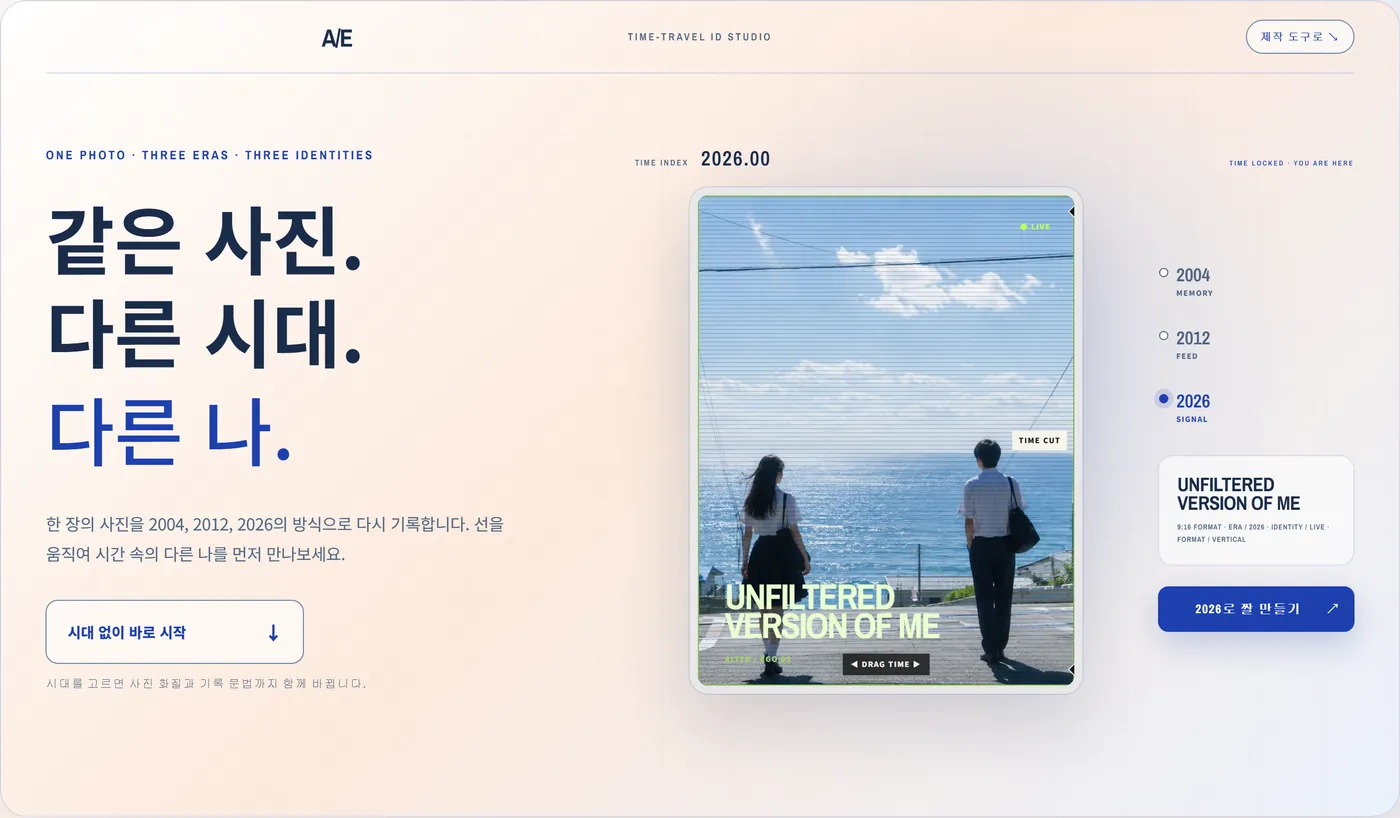
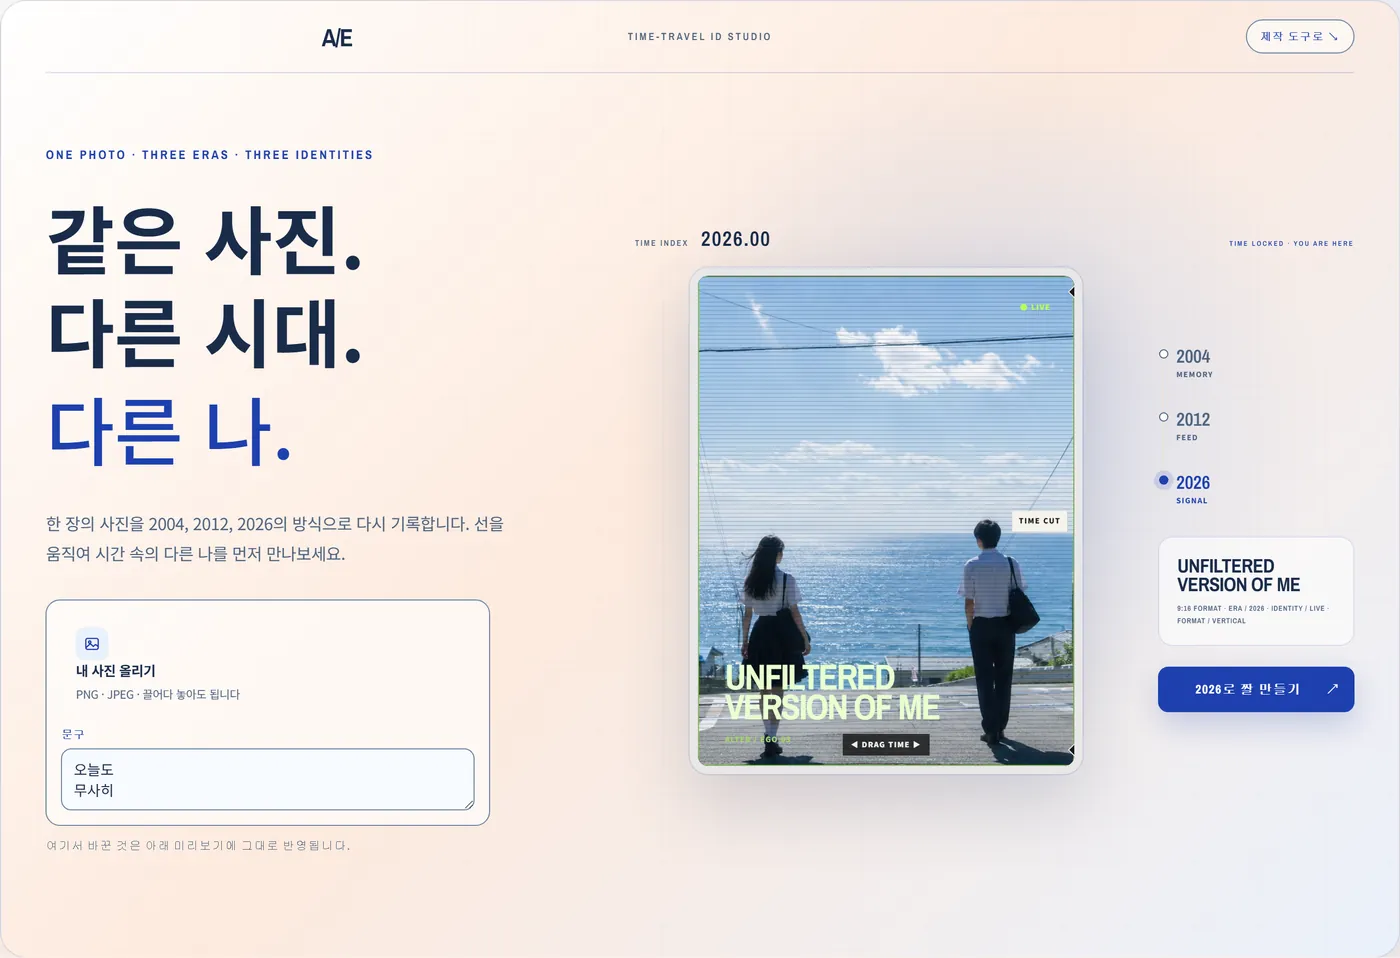
feat: let the first screen edit, not just promise to
과제 통과 기준 T03-C03 은 이미지 편집 도구와 문구 편집 도구가 첫 화면에
보일 것을 요구한다. 첫 화면을 랜딩으로 만들면서 편집 도구가 한참 아래로
밀려 이 기준이 깨져 있었다.

  1440x900   이미지 top 3557px · 문구 top 3834px   (화면 900px)
  1366x768   이미지 top 3465px · 문구 top 3742px   (화면 768px)
  390x844    이미지 top 5266px · 문구 top 5543px   (화면 844px)

Hero 왼쪽의 '시대 없이 바로 시작' 버튼을 실제 입력으로 바꾼다. 그 버튼이
하던 일은 아래로 스크롤하는 것뿐이었고, 그 경로는 상단 내비의 '제작 도구로'
가 이미 갖고 있었다. 약속만 하는 버튼을 지우고 그 자리에 도구를 놓는다.

바로가기가 아니라 아래 Studio 와 같은 state 를 쓰는 같은 도구다. 여기서
사진을 고르거나 문구를 치면 아래 미리보기가 곧바로 그것을 그린다.

버튼처럼 보이게 하지 않았다. 첫 화면의 주 행동은 여전히 Scanner 의
'ENTER ERA' 하나이고, 이것은 버튼이 아니라 입력이라 그 위계를 흐리지 않는다.
'첫 화면의 주 행동은 하나다' 검사가 그대로 통과한다.

회귀 검사를 함께 넣는다. 화면 폭에 따라 다시 밀릴 수 있는 종류라 세 폭을
모두 본다. '보인다' 로 끝내지 않고 여기서 친 문구가 편집 상태와 미리보기에
반영되는지까지 확인한다 — 바로가기 링크를 놓아도 보이기는 하기 때문이다.

이미지 출처도 기록했다. 화면에 쓰는 사진은 생성형 AI 로 직접 만든 것이라
촬영물이 아니고 제3자 저작권·초상권 대상이 없다(T03-C27). 배포와 문서에
실리는 이미지 22개를 바이트 단위로 검사해 EXIF·GPS 0건도 함께 적었다(C28).

Hero 가 바뀌어 README 스크린샷도 다시 찍었다.

검증: 단위 70/70, E2E 29/29.

diff --git a/src/App.jsx b/src/App.jsx
@@ -3,6 +3,7 @@ import {
   createInitialState,
   clampState,
   getCanvasSize,
+  LIMITS,
 } from './state/editorState.js';
 import { renderCard } from './render/renderCard.js';
 import { checkTextContrast } from './render/contrast.js';
@@ -27,6 +28,7 @@ import EditorPanel from './components/EditorPanel.jsx';
 import PreviewPanel from './components/PreviewPanel.jsx';
 import TemplatePanel from './components/TemplatePanel.jsx';
 import TemporalScanner from './components/TemporalScanner.jsx';
+import DropZone from './components/DropZone.jsx';
 import identityBanner from '../배너이미지/짤스튜디오02.avif';
 
 const ACCEPTED_TYPES = ['image/png', 'image/jpeg'];
@@ -630,16 +632,42 @@ export default function App() {
               선을 움직여 시간 속의 다른 나를 먼저 만나보세요.
             </p>
             {/*
-              첫 화면의 주 행동은 Scanner 의 'ENTER ERA' 하나다. 예전에는 이
-              버튼도 '바로 짤 만들기' 라고 적혀 있어서 두 버튼이 같은 말을 하고
-              같은 색이었고, 무엇이 다른지 화면에서 알 수 없었다. 여기는
-              시대를 고르지 않고 건너뛰는 길이므로 그렇게 적고, 색도 낮춘다.
+              첫 화면에서 바로 편집을 시작한다.
+
+              여기 있던 '시대 없이 바로 시작' 버튼이 하던 일은 아래로
+              스크롤하는 것뿐이었는데, 그 경로는 상단 내비의 '제작 도구로 ↘'
+              가 이미 갖고 있었다. 약속만 하는 버튼을 지우고 그 자리에 진짜
+              입력을 놓는다.
+
+              바로가기가 아니라 **아래 Studio 와 같은 state 를 쓰는 같은
+              도구**다. 여기서 사진을 고르거나 문구를 치면 아래 미리보기가
+              곧바로 그것을 그린다.
+
+              첫 화면의 주 행동은 여전히 Scanner 의 'ENTER ERA' 하나다.
+              이 컨트롤은 버튼이 아니라 입력이라 그 위계를 흐리지 않는다.
             */}
             <div className="hero-actions">
-              <button type="button" className="hero-make-button" onClick={scrollToStudio}>
-                <span>시대 없이 바로 시작</span><b aria-hidden="true">↓</b>
-              </button>
-              <span>시대를 고르면 사진 화질과 기록 문법까지 함께 바뀝니다.</span>
+              <div className="hero-quick" role="group" aria-label="바로 시작">
+                <DropZone
+                  accept="image/png,image/jpeg"
+                  onFile={pickImage}
+                  icon="image"
+                  compact
+                  title={state.image ? '다른 사진으로 바꾸기' : '내 사진 올리기'}
+                  hint={state.image ? state.imageName : 'PNG · JPEG · 끌어다 놓아도 됩니다'}
+                />
+                <label className="hero-quick-text">
+                  <span>문구</span>
+                  <textarea
+                    value={state.text}
+                    rows={2}
+                    maxLength={LIMITS.textMaxLength}
+                    placeholder="넣고 싶은 문구를 적어보세요"
+                    onChange={(event) => update({ text: event.target.value })}
+                  />
+                </label>
+              </div>
+              <span>여기서 바꾼 것은 아래 미리보기에 그대로 반영됩니다.</span>
             </div>
           </div>
 

diff --git a/test/e2e/interaction.e2e.js b/test/e2e/interaction.e2e.js
@@ -264,6 +264,59 @@ test('동작 줄이기에서는 처음부터 다 보인다', async () => {
   }
 });
 
+test('첫 화면에서 스크롤 없이 사진과 문구를 바꿀 수 있다', async () => {
+  // 과제 통과 기준 T03-C03 — 이미지 편집 도구와 문구 편집 도구가 첫 화면에
+  // 보여야 한다. 첫 화면을 랜딩으로 만들면서 한때 편집 도구가 3,500px
+  // 아래로 밀려 이 기준이 깨져 있었다. 화면 폭에 따라 다시 밀릴 수 있으므로
+  // 좁은 화면까지 함께 본다.
+  //
+  // '보인다' 로 끝내지 않는다. 바로가기 링크를 놓아도 보이기는 하므로,
+  // 여기서 바꾼 것이 실제 편집 상태에 반영되는지까지 확인해야 진짜 도구다.
+  for (const viewport of [{ width: 1440, height: 900 }, { width: 1366, height: 768 }, { width: 390, height: 844 }]) {
+    const fresh = await browser.newPage({ viewport });
+    try {
+      await fresh.goto(server.url, { waitUntil: 'networkidle' });
+      await fresh.waitForSelector('canvas');
+      await fresh.waitForTimeout(400);
+
+      const hidden = await fresh.evaluate(() =>
+        [
+          ['이미지 편집 도구', '.hero-quick .dropzone'],
+          ['문구 편집 도구', '.hero-quick textarea'],
+        ]
+          .filter(([, sel]) => {
+            const el = document.querySelector(sel);
+            if (!el) return true;
+            const b = el.getBoundingClientRect();
+            return !(b.top < window.innerHeight && b.bottom > 0 && b.width > 0);
+          })
+          .map(([label]) => label)
+      );
+      assert.deepEqual(
+        hidden,
+        [],
+        `${viewport.width}px 첫 화면에서 스크롤해야 보이는 도구: ${hidden.join(', ')}`
+      );
+
+      // 같은 상태를 쓰는 진짜 도구인지.
+      await fresh.locator('.hero-quick textarea').fill('첫 화면 편집');
+      await fresh.waitForTimeout(400);
+      assert.equal(
+        await fresh.locator('#text-input').inputValue(),
+        '첫 화면 편집',
+        `${viewport.width}px 첫 화면 입력이 편집 상태에 반영되지 않았다`
+      );
+      assert.match(
+        await fresh.locator('.canvas-frame canvas').getAttribute('aria-label'),
+        /첫 화면 편집/,
+        `${viewport.width}px 첫 화면 입력이 미리보기에 그려지지 않았다`
+      );
+    } finally {
+      await fresh.close();
+    }
+  }
+});
+
 test('첫 화면의 주 행동은 하나다', async () => {
   // 예전에는 Hero 버튼과 Scanner CTA 가 둘 다 '바로 짤 만들기' 라고 적혀
   // 있고 색까지 같아서, 무엇이 다른지 화면에서 알 수 없었다.

diff --git a/src/styles.css b/src/styles.css
@@ -2163,3 +2163,54 @@ body:has(.panel-preview.is-showcase) .to-top { display: none; }
     transform: none;
   }
 }
+
+/*
+  첫 화면의 바로 시작 컨트롤.
+
+  아래 Studio 와 같은 state 를 쓰는 같은 도구다. 첫 화면에서 사진과 문구를
+  바로 다룰 수 있어야 한다는 요구를 링크나 바로가기가 아니라 실제 입력으로
+  만족시킨다.
+
+  버튼처럼 보이게 하지 않는다. 첫 화면의 주 행동은 Scanner 의 'ENTER ERA'
+  하나이고, 이것이 채워진 버튼으로 보이면 그 위계가 흐려진다.
+*/
+.hero-quick {
+  width: 100%;
+  max-width: 430px;
+  display: grid;
+  gap: 10px;
+  padding: 14px;
+  border: 1px solid var(--edge);
+  border-radius: 14px;
+  background: rgba(255, 255, 255, .62);
+}
+.hero-quick .dropzone { padding: 12px 14px; border-radius: 10px; }
+.hero-quick .dropzone-title { font-size: 13px; font-weight: 700; }
+.hero-quick .dropzone-hint { font-size: 11px; }
+
+.hero-quick-text { display: grid; gap: 5px; }
+.hero-quick-text > span {
+  font-family: var(--font-meta);
+  font-size: 10px;
+  font-weight: 600;
+  letter-spacing: .14em;
+  text-transform: uppercase;
+  color: var(--accent);
+}
+.hero-quick-text textarea {
+  width: 100%;
+  min-height: 0;
+  padding: 9px 11px;
+  border: 1px solid var(--edge);
+  border-radius: 10px;
+  background: var(--field);
+  color: var(--text);
+  font-family: var(--font-korean);
+  font-size: 14px;
+  line-height: 1.45;
+  resize: vertical;
+}
+
+@media (max-width: 640px) {
+  .hero-quick { max-width: none; padding: 12px; }
+}

diff --git a/README.md b/README.md
@@ -175,10 +175,19 @@ docs/         설계 · 검사표 · 검증 안내서
 배너이미지/    원본 사진과 앱이 쓰는 AVIF 파생본
 ```
 
+## 이미지 출처
+
+- **화면에 쓰는 사진** (`배너이미지/짤스튜디오01·02.png`) — 생성형 AI 로 직접 만든
+  이미지입니다. 촬영물이 아니라 제3자 저작권·초상권 대상이 없고, 실존 인물이 아닙니다.
+- **검사·예제 이미지** (`public/sample/`) — `scripts/make-test-images.mjs` 로 직접 생성합니다.
+- **완성 이미지 3개** (`docs/evidence/`) — 위 생성 이미지로 직접 제작했습니다.
+- 배포와 문서에 실리는 이미지 22개를 바이트 단위로 검사해 **EXIF·GPS 위치정보 0건**을 확인했습니다.
+
 ## AI 사용 기록
 
 - **AI에게 맡긴 일** — 컴포넌트 분리, Canvas 렌더 함수와 줄바꿈 로직 구현,
-  localStorage CRUD 와 JSON 스키마 검증 코드 작성, 극단 입력 측정 스크립트 작성.
+  localStorage CRUD 와 JSON 스키마 검증 코드 작성, 극단 입력 측정 스크립트 작성,
+  화면에 쓰는 사진 생성.
 - **내가 판단한 일** — 미리보기와 다운로드를 같은 캔버스로 통일하는 구조 결정,
   템플릿에 이미지를 저장하지 않기로 한 판단과 그 사실을 화면에 밝히기로 한 결정,
   자동 축소를 조용히 하지 않고 사용자에게 알리기로 한 결정, 화면 3분할 구성.

diff --git a/docs/SELF-CHECK.md b/docs/SELF-CHECK.md
@@ -172,6 +172,9 @@
 |---|---|
 | 저장소 전체 비밀값 검색 | API Key · Token · Password · Secret **0건** |
 | 검사·예제 이미지 | `scripts/make-test-images.mjs` 로 직접 생성, 저작권·EXIF 위치정보 없음 |
+| 화면에 쓰는 사진 | `배너이미지/짤스튜디오01·02.png` — **생성형 AI 로 직접 생성한 이미지(본인 제작)**. 촬영물이 아니므로 제3자 저작권·초상권 대상이 없고, 실존 인물이 아니다. |
+| 완성 이미지 3개 | `docs/evidence/` — 위 검사용 생성 이미지로 직접 제작(본인 제작) |
+| 공개 이미지 메타데이터 | 배포·문서에 실리는 이미지 22개를 바이트 단위로 검사. EXIF·GPS **0건** |
 | 이미지 전송 | 없음. 모든 처리가 브라우저 안에서만 이루어짐 |
 | 내보낸 JSON | 개인정보 패턴 검출 0건 |
 
